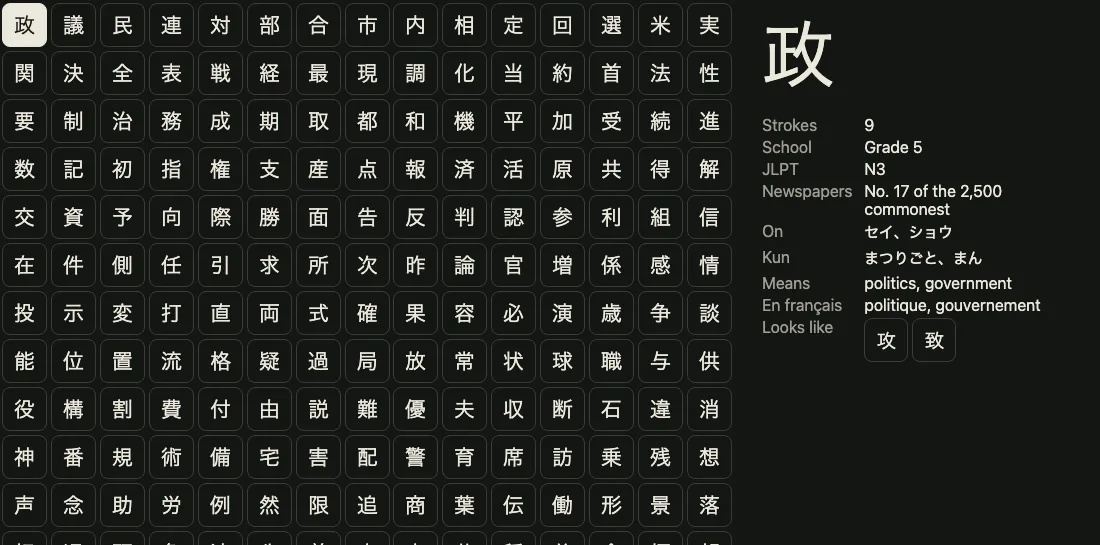
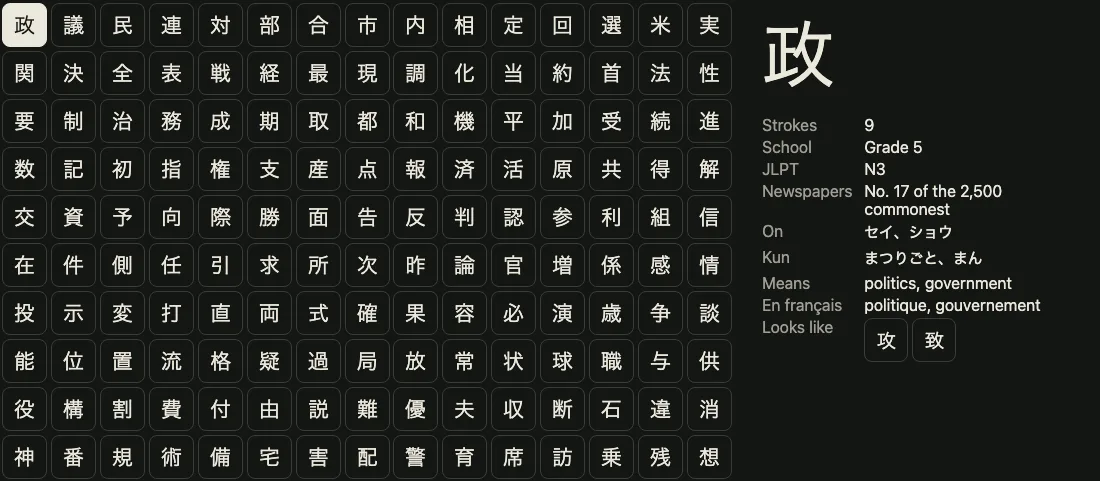
docs: JLPT picture ends on a whole row

Changed region(s): [[0.0, 0.0312, 0.9582, 1.0], [0.7727, 0.6861, 0.8655, 0.7484]]

diff --git a/README.md b/README.md
@@ -85,7 +85,7 @@ console.log(lookAlikes(LOOK_ALIKE, "土")[0]?.kanji); // the closest look-alike 
 <td align="center" valign="top">
 <picture>
 <source media="(prefers-color-scheme: dark)" srcset="https://raw.githubusercontent.com/johnmorrisdotca/moji/main/docs/images/jlpt-level-desk-dark.webp">
-<img src="https://raw.githubusercontent.com/johnmorrisdotca/moji/main/docs/images/jlpt-level-desk-light.webp" alt="The 367 kanji of JLPT N3 in a grid in the order of Waller's list, 政 chosen, with its card beside the grid." width="360">
+<img src="https://raw.githubusercontent.com/johnmorrisdotca/moji/main/docs/images/jlpt-level-desk-light.webp" alt="The first ten rows of the 367 kanji of JLPT N3, in the order of Waller's list, 政 chosen, with its card beside the grid." width="360">
 </picture><br>
 <sub>A JLPT level: N3, in the order of the list.</sub>
 </td>
